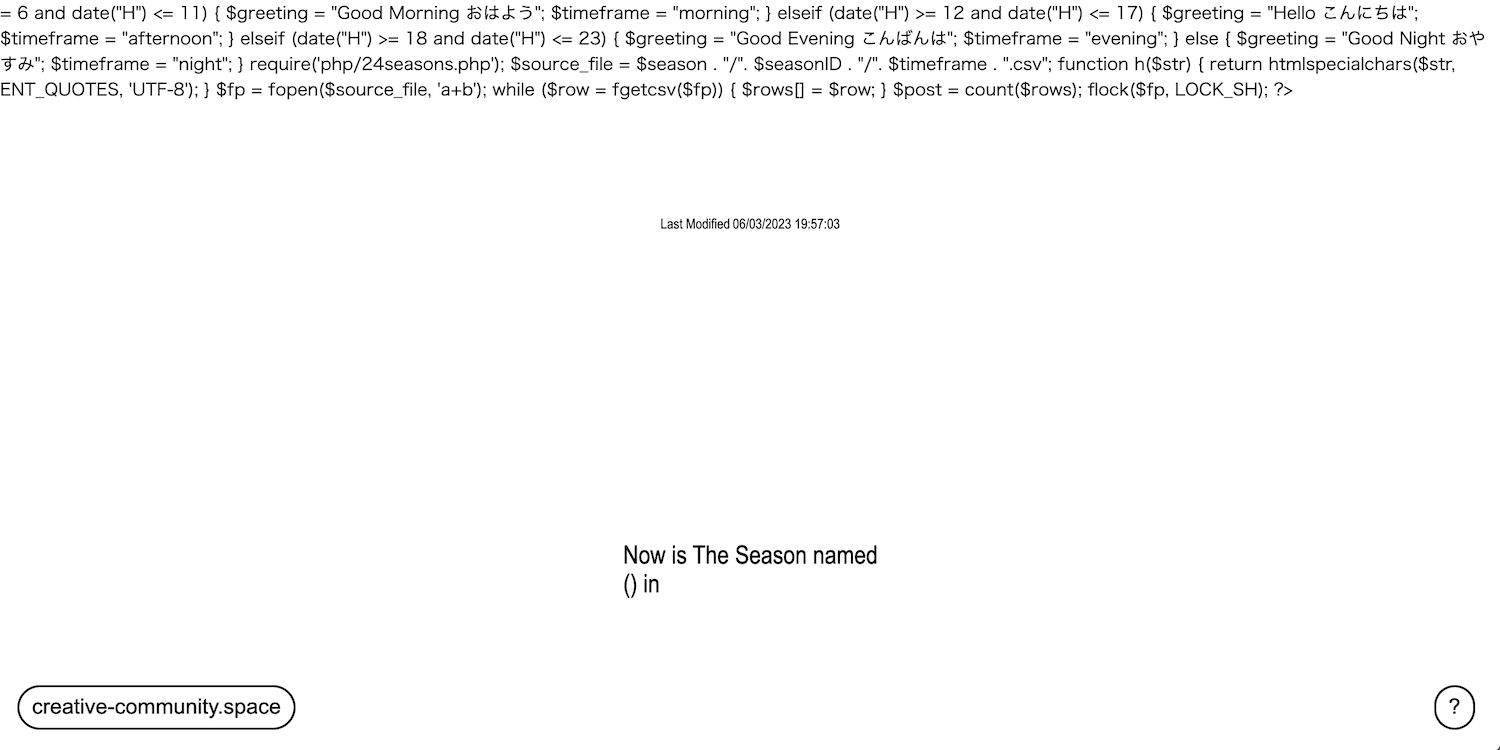
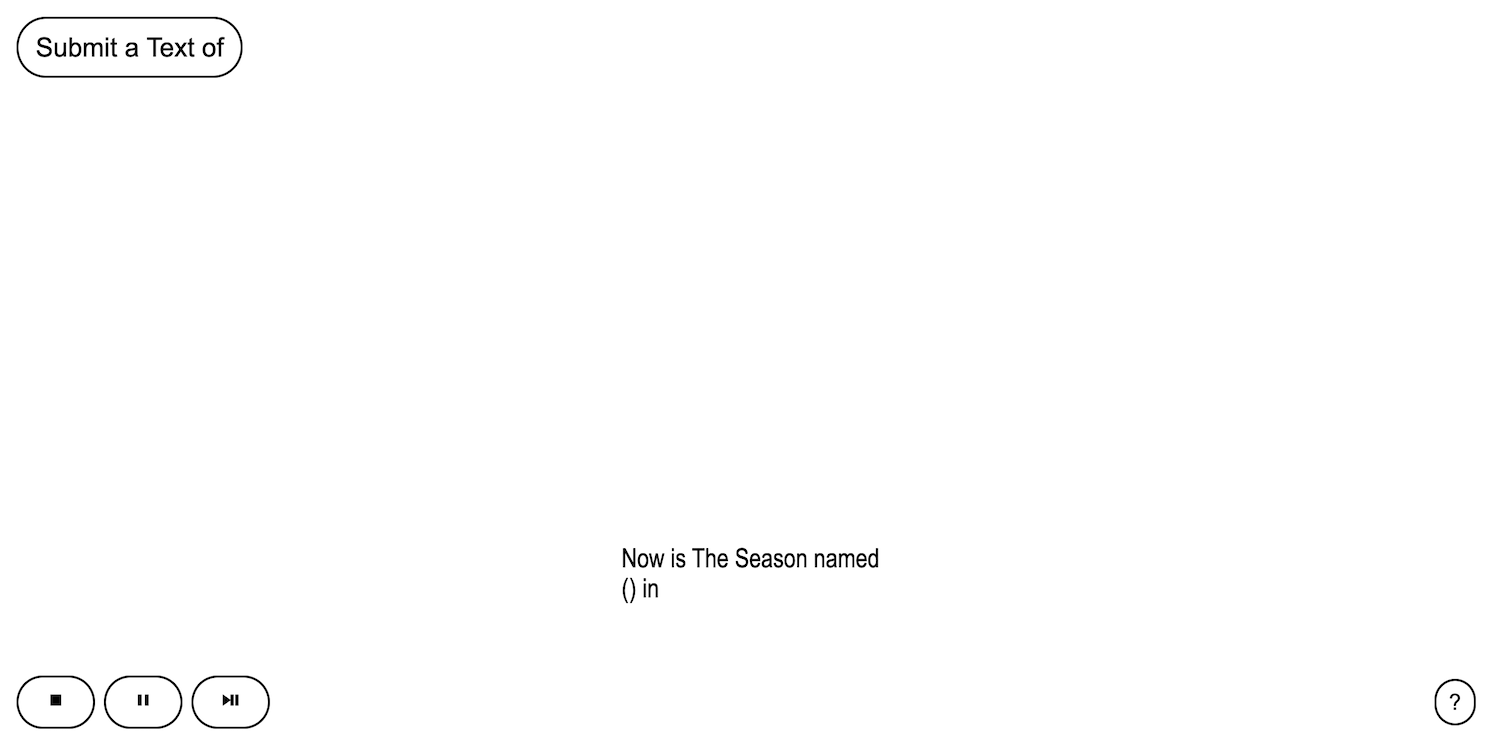
all

diff --git a/hello/all/index.php b/hello/all/index.php
@@ -104,9 +104,11 @@ $url = "{$site}" . "{$_SERVER['REQUEST_URI']}";
   </header>
 
   <main id="hello" hidden>
-    <section id="howto"></section>
+    <h2><?php echo $title; ?></h2>
     <hr>
-    <button type="button" id="back-btn" onclick="ChangeHidden()">Back</button>
+    <section id="readme"></section>
+    <hr>
+    <button type="button" style="float:right;" onclick="ChangeHidden()">Back</button>
   </main>
 
   <main id="log">
@@ -364,7 +366,7 @@ $url = "{$site}" . "{$_SERVER['REQUEST_URI']}";
   fetch('readme.md')
   .then(response => response.text())
   .then(text => {
-    document.querySelector('#howto').innerText = text
+    document.querySelector('#readme').innerText = text
   });
 
   const dateAll = document.querySelectorAll('#log ul li button')

diff --git a/hello/all/readme.md b/hello/all/readme.md
@@ -1,2 +1,5 @@
+24 Sekki divided each of the Four Seasons into 6 by the movement of the sun.
+The Year is divided into Four Seasons, but traditionally the year was also divided up into 24 Sekki.
+
 二十四節気は、四季「春」「夏」「秋」「冬」それぞれを太陽の動きをもとに6つに分け、季節をあらわす名前をつけたもの。
 中国の中原の気候をもとに作られたため、日本で体感する気候とは季節感が合わない名称や時期があります。また、その年によって節の始まりの日が1日程度前後することがあります。

diff --git a/hello/readme.md b/hello/readme.md
@@ -29,7 +29,7 @@ Add Posts to a CSV files for each *Timeframe* in the directories of **24 Sekki**
 
 ***
 
-##[24 Sekki](all) divided each of the Four Seasons into Six Seasons by the movement of the sun.
+##[24 Sekki](all) divided each of the Four Seasons into 6 by the movement of the sun.
 The Year is divided into Four Seasons, but traditionally the year was also divided up into 24 Sekki.
 
 [^1]:二十四節気は、四季「春」「夏」「秋」「冬」それぞれを太陽の動きをもとに6つに分け、季節をあらわす名前をつけたもの。
